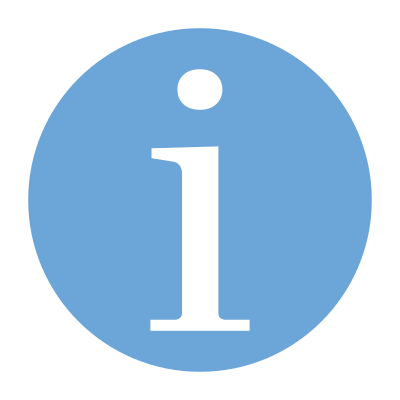
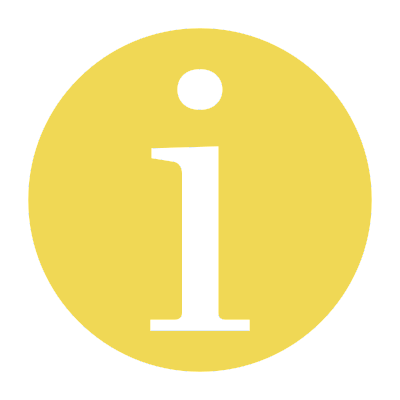
bluish bottons made yellow

diff --git a/model/style.css b/model/style.css
@@ -1,3 +1,32 @@
+/* Match the site's gold accent (see map/styles.css) instead of Pico's
+   default blue for sliders, focus rings and the audio switch.
+   !important is needed because Pico defines these same variables on
+   `:root:not([data-theme])`, which outranks a plain `:root` override. */
+:root {
+    --pico-primary: #ffd700 !important;
+    --pico-primary-background: #d1ae00 !important;
+    --pico-primary-border: #d1ae00 !important;
+    --pico-primary-hover: #ffe14d !important;
+    --pico-primary-hover-background: #e6c200 !important;
+    --pico-primary-hover-border: #e6c200 !important;
+    --pico-primary-focus: rgba(255, 215, 0, 0.375) !important;
+    --pico-primary-underline: rgba(255, 215, 0, 0.5) !important;
+    --pico-primary-inverse: #13171f !important;
+    --pico-switch-checked-background-color: var(--pico-primary-background) !important;
+    /* Audio switch's "off" track defaults to a blue-gray (#333c4e); warm
+       it up so it doesn't clash even before it's toggled on. */
+    --pico-switch-background-color: #3a3424 !important;
+
+    /* range slider thumb rests on --pico-secondary-background; warm it
+       up to match instead of Pico's default blue-gray */
+    --pico-secondary: #a68a2d !important;
+    --pico-secondary-background: #a68a2d !important;
+    --pico-secondary-border: #a68a2d !important;
+    --pico-secondary-hover: #bfa23a !important;
+    --pico-secondary-hover-background: #bfa23a !important;
+    --pico-secondary-hover-border: #bfa23a !important;
+}
+
 body {
     margin: 0;
     padding: 0;
@@ -109,13 +138,13 @@ body {
     position: absolute;
     inset: 0;
     border-radius: inherit;
-    background: rgba(255, 0, 0, 0);
+    background: rgba(255, 107, 53, 0);
     transition: background 0.15s ease, transform 0.15s ease;
 }
 
 .parameter-info-button:hover::after,
 .parameter-info-button:focus::after {
-    background: rgba(255, 0, 0, 0.2);
+    background: rgba(255, 107, 53, 0.35);
 }
 
 .parameter-info-button:hover,

diff --git a/measurement/main.js b/measurement/main.js
@@ -527,25 +527,34 @@ class MeasurementView {
         this.playBtn.textContent = '▶  Start scan';
         this.playBtn.disabled = true;
         this.playBtn.style.cssText = `
-            padding:8px 20px; background:#1a5276; color:#ccc; border:none;
+            padding:8px 20px; background:rgba(255,215,0,0.08); color:#ffd700;
+            border:1px solid rgba(255,215,0,0.35);
             border-radius:6px; font-size:13px; font-family:sans-serif;
             opacity:0.45; cursor:default; transition:background 0.15s;
         `;
         this.playBtn.addEventListener('click', () => this._startScan());
         this.playBtn.addEventListener('mouseover', () => {
-            if (!this.playBtn.disabled) this.playBtn.style.background = '#2471a3';
+            if (!this.playBtn.disabled) this.playBtn.style.background = 'rgba(255,215,0,0.22)';
         });
         this.playBtn.addEventListener('mouseout', () => {
-            this.playBtn.style.background = '#1a5276';
+            this.playBtn.style.background = 'rgba(255,215,0,0.08)';
         });
 
         const resetBtn = document.createElement('button');
         resetBtn.textContent = '↺  Reset';
         resetBtn.style.cssText = `
-            padding:8px 14px; background:#2c3e50; color:#bbb; border:none;
+            padding:8px 14px; background:rgba(255,215,0,0.08); color:#ffd700;
+            border:1px solid rgba(255,215,0,0.25);
             border-radius:6px; font-size:13px; font-family:sans-serif; cursor:pointer;
+            transition:background 0.15s;
         `;
         resetBtn.addEventListener('click', () => this._reset());
+        resetBtn.addEventListener('mouseover', () => {
+            resetBtn.style.background = 'rgba(255,215,0,0.22)';
+        });
+        resetBtn.addEventListener('mouseout', () => {
+            resetBtn.style.background = 'rgba(255,215,0,0.08)';
+        });
 
         ui.appendChild(this.playBtn);
         ui.appendChild(resetBtn);

diff --git a/model/index.html b/model/index.html
@@ -26,6 +26,13 @@
       <a href="https://novac-community.org/" target="_blank" rel="noopener">
         <img src="../NOVAC_logo.png" alt="NOVAC logo">
       </a>
+      <a class="doc-btn" href="../docs/model-documentation.pdf" target="_blank" rel="noopener" aria-label="View model documentation (PDF)" title="View model documentation (PDF)">
+        <svg viewBox="0 0 24 24" stroke-width="2" stroke-linecap="round" stroke-linejoin="round" aria-hidden="true">
+          <path d="M9 18h6"/>
+          <path d="M10 22h4"/>
+          <path d="M12 2a7 7 0 0 0-4 12.7c.6.5 1 1.2 1 2.3h6c0-1.1.4-1.8 1-2.3A7 7 0 0 0 12 2Z"/>
+        </svg>
+      </a>
     </div>
     <audio id="silence" src="resources/silence.mp3" volume="0" loop></audio>
     <audio id="strong_eruption_sfx" src="resources/strong_eruption_sfx.mp3" volume="0.5" loop></audio>

diff --git a/model/src/annotationHandler.js b/model/src/annotationHandler.js
@@ -123,7 +123,7 @@ class AnnotationHandler {
                 this.canvas.style.cursor = "pointer"
                 this.highlightedAnnotation = res.object;
                 this.highlightedAnnotation.scale.setScalar(annotationSizeHighlight);
-                this.highlightedAnnotation.material.color.set('#f00');
+                this.highlightedAnnotation.material.color.set('#ff6b35');
 
                 annotationLabel.innerHTML = this.highlightedAnnotation.annotation.name;
                 annotationLabel.style.display = "block";
